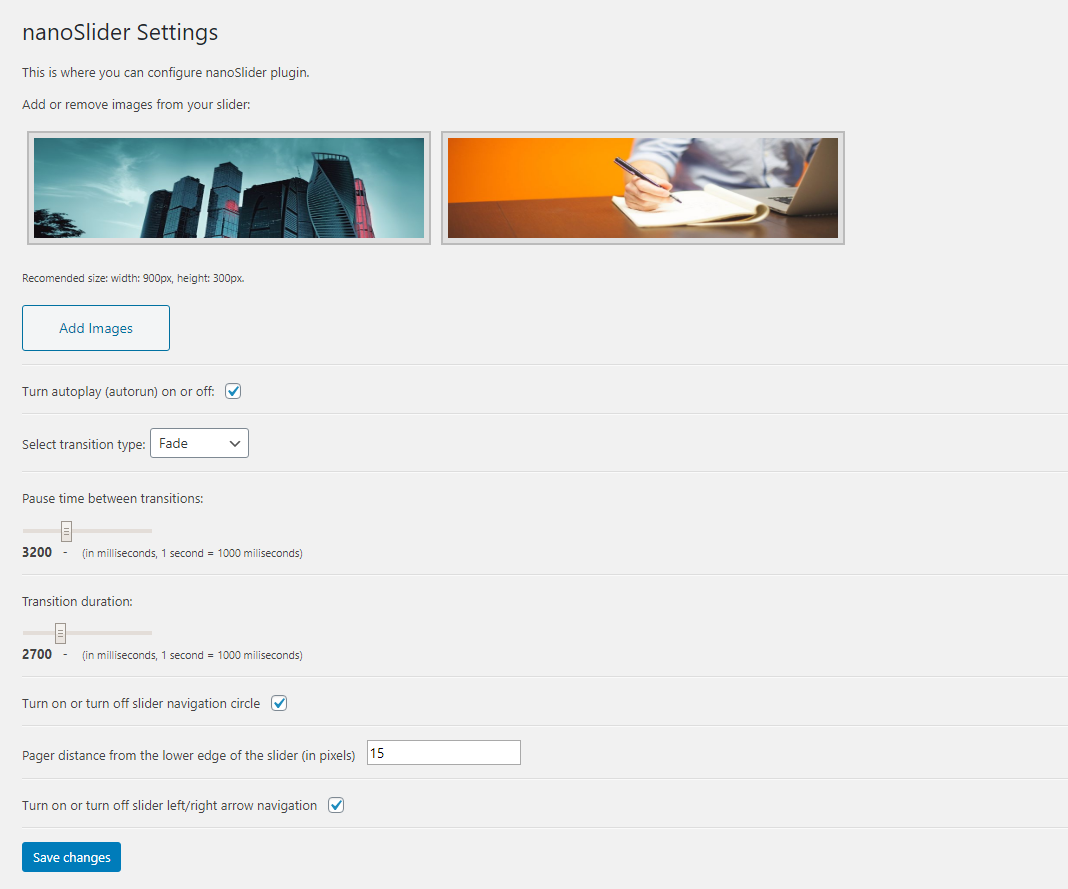
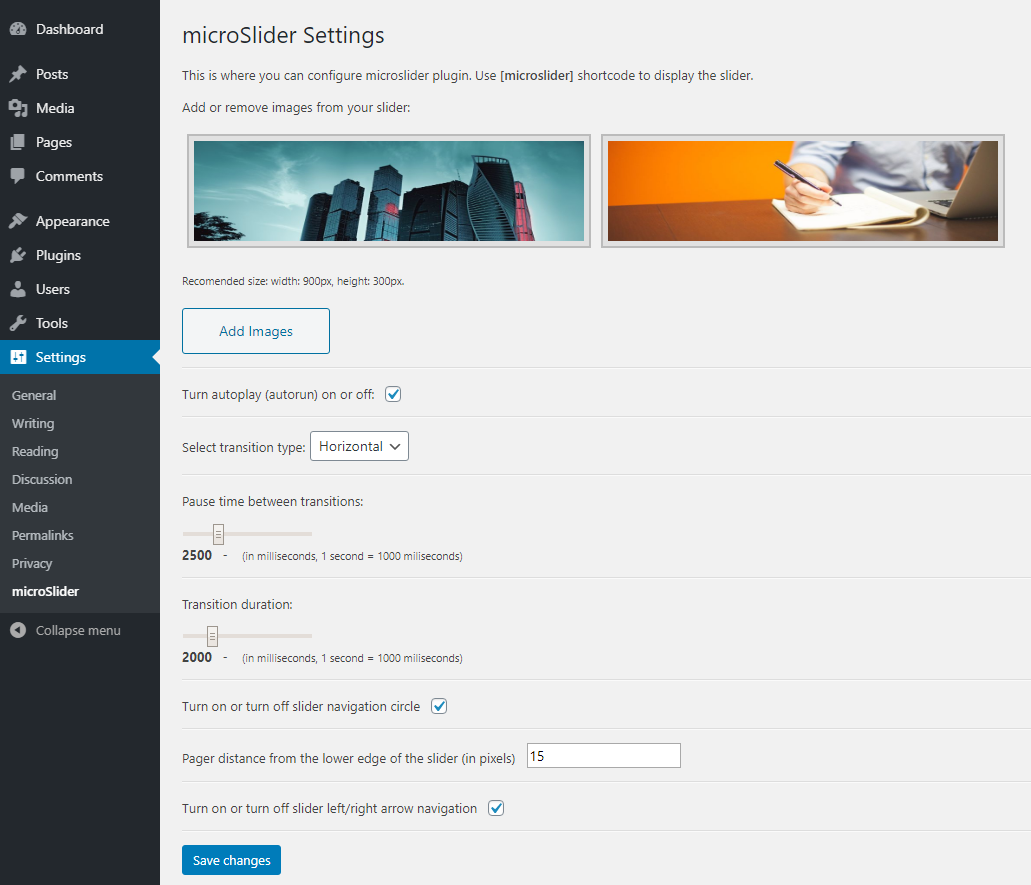
init

Changed region(s): [[0.0, 0.0, 0.9932, 1.0], [0.2173, 0.3661, 0.2793, 0.3966]]

diff --git a/includes/class-microslider-activator.php b/includes/class-microslider-activator.php
@@ -5,7 +5,7 @@ class Microslider_Activator {
 	public static function activate() {
 
 		$microslider_options = array(
-			'microslider_images' => ''. plugins_url( 'admin/images/demo/demo-1.jpg', dirname(__FILE__) ) .','. plugins_url( 'admin/images/demo/demo-2.jpg', dirname(__FILE__) ) .','. plugins_url( 'admin/images/demo/demo-3.jpg', dirname(__FILE__) ).'', 'microslider_s_auto' => 1, 'microslider_s_type' => 'horizontal', 'microslider_s_pause' => 1000, 'microslider_s_trspeed' => 1000, 'microslider_s_pager' => 1, 'microslider_s_controls' => 1, 'microslider_s_pagepos' => 15, 'version' => '1.0.0');
+			'microslider_images' => ''. plugins_url( 'admin/images/demo/demo-1.jpg', dirname(__FILE__) ) .','. plugins_url( 'admin/images/demo/demo-2.jpg', dirname(__FILE__) ) .','. plugins_url( 'admin/images/demo/demo-3.jpg', dirname(__FILE__) ).'', 'microslider_s_auto' => 1, 'microslider_s_type' => 'horizontal', 'microslider_s_pause' => 2500, 'microslider_s_trspeed' => 2000, 'microslider_s_pager' => 1, 'microslider_s_controls' => 1, 'microslider_s_pagepos' => 15, 'version' => '1.0.0');
 	
 		if(!get_option('microslider_options')){
 			add_option('microslider_options', $microslider_options);

diff --git a/admin/partials/microslider-admin-display.php b/admin/partials/microslider-admin-display.php
@@ -1,9 +1,9 @@
 <?php if ( ! defined( 'ABSPATH' ) ) die('No permissions to access this page!'); ?>
 <div class="wrap">
 
-	<h2><?php _e('microslider Settings', 'microslider'); ?></h2>
+	<h2><?php _e('microSlider Settings', 'microslider'); ?></h2>
 	<?php echo !$alert ? '' : '<div id="setting-error-settings_updated" class="updated settings-error"><p><strong>'. $alert .'</strong></p></div>'; ?>
-	<p><?php _e('This is where you can configure microslider plugin. Use <strong>[microslider]</strong> shortcode to display the slider.', 'microslider'); ?>.</p>
+	<p><?php _e('This is where you can configure microslider plugin. Use <strong>[microslider]</strong> shortcode to display the slider', 'microslider'); ?>.</p>
 	
 	<form action="" method="POST" class="microslider_settings">
 		<?php wp_nonce_field('microslider-admin-nonce'); ?>

diff --git a/admin/class-microslider-admin.php b/admin/class-microslider-admin.php
@@ -58,7 +58,7 @@ class Microslider_Admin {
 	
 	public function microslider_admin_menu()
 	{
-		$microslider_admin_menu = add_options_page('microslider', 'microslider Settings', 'manage_options', 'microslider', array($this, 'microslider_options'));
+		$microslider_admin_menu = add_options_page('microSlider Settings', 'microSlider', 'manage_options', 'microslider', array($this, 'microslider_options'));
 	}
 	
 
